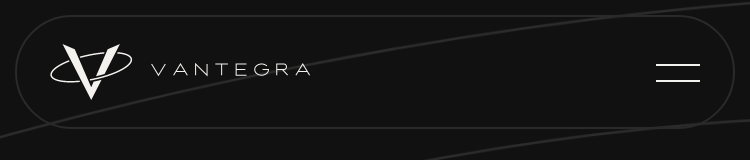
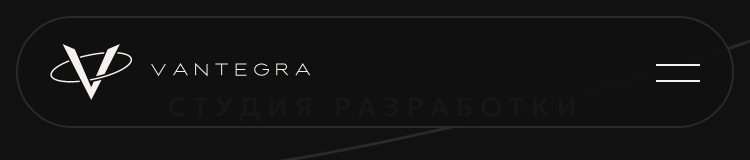
Шапка: наверху плоская, при прокрутке перетекает в капсулу (правка владельца)

diff --git a/PLAN.md b/PLAN.md
@@ -104,7 +104,7 @@ Astro 7.3 (static, `trailingSlash: 'always'`), TypeScript strict, обычный
 9. **Прорисовка орбит** — длина кольца считается при сборке и переводится в пиксели экрана (`--len`), в конце анимации штрих снимается: при `non-scaling-stroke` Chrome считает штрихи в экранных пикселях.
 10. **Контакты в мобильном меню** — компактные строки, чтобы кнопка «Обсудить проект» помещалась на 375 × 812 без прокрутки.
 11. **Нижняя строка первого экрана убрана** по решению владельца (03.10.2026): нет ни «Листайте», ни «Работаем по всей России».
-12. **Шапка — плавающая капсула** (правка владельца 03.10.2026, ориентир — шапка-полоска со скриншота): pill-форма как у кнопок, контур графитом, над первым экраном прозрачная, после 24 px — сажа 95 % с размытием. Кнопка «Обсудить проект» — основная (мел), вписана концентрично. Анимация: контур прорисовывается при загрузке, ссылки проявляются по очереди, под ссылками скользит линия 1 px (к наведённой, к активной; при переходе между страницами — к новой). Высота капсулы 56/64 px держит охранное поле логотипа; зона шапки по-прежнему 64/80 px.
+12. **Шапка** (правки владельца 03.10.2026). Наверху страницы — плоская, прилегает к краю: без формы, рамки и подложки, содержимое по сетке. После прокрутки на 24 px плавно перетекает (600 мс, `--ease-out`) в плавающую капсулу: сжимается к сетке, опускается на 8/16 px, закругляется (pill), проявляются рамка графитом и подложка сажи 95 % с размытием; наверху — обратно. Логотип не сдвигается. Кнопка «Обсудить проект» — основная (мел), вписана концентрично. Под ссылками скользит линия 1 px (к наведённой, к активной, при переходе — к новой). Капсула 56/64 px держит охранное поле логотипа; зона шапки 64/80 px. Перетекание анимирует размеры шапки — исключение из правила «только transform и opacity» по запросу владельца; при reduced motion форма меняется сразу.
 13. **Тире** — детектор impeccable отмечает «много длинных тире»; это формат подписей «01 — Название» и готовые тексты задания, оставлено по брифу.
 
 ## 7. Этапы
